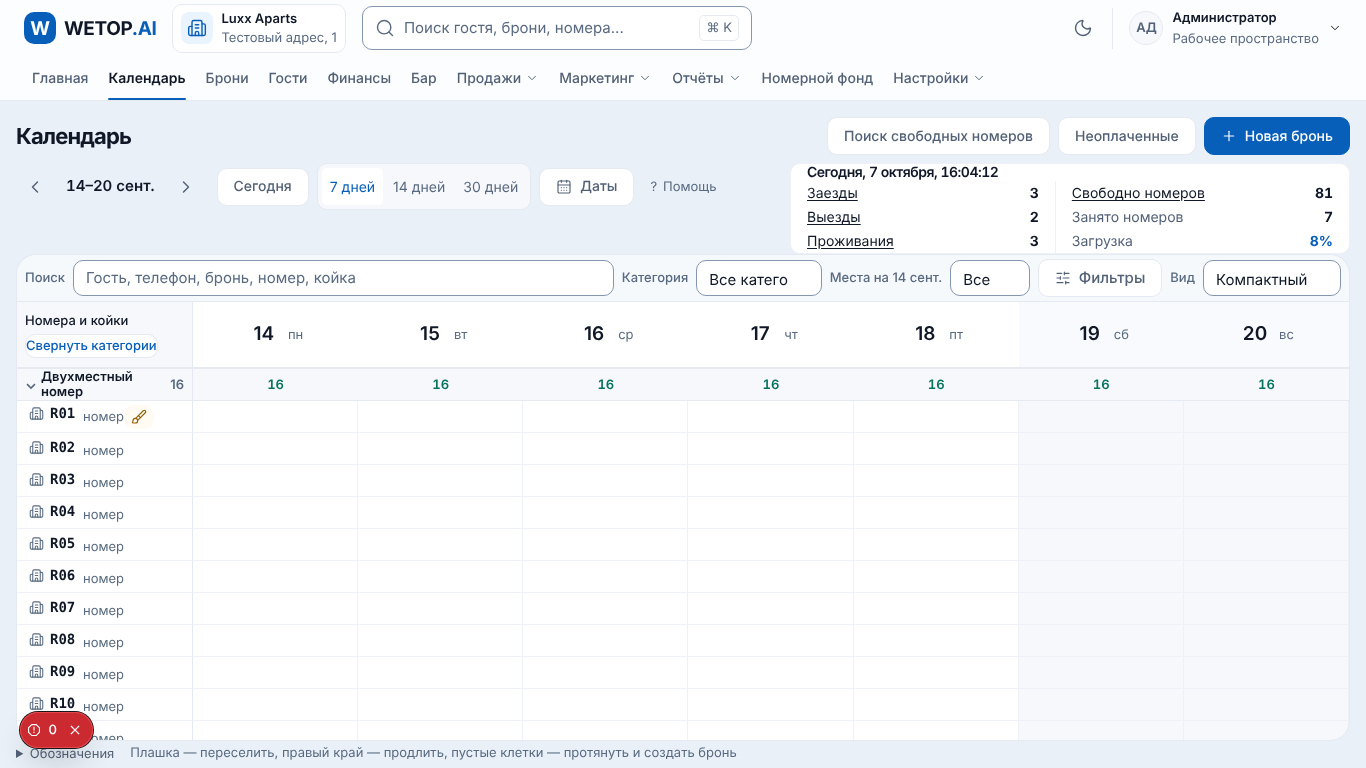
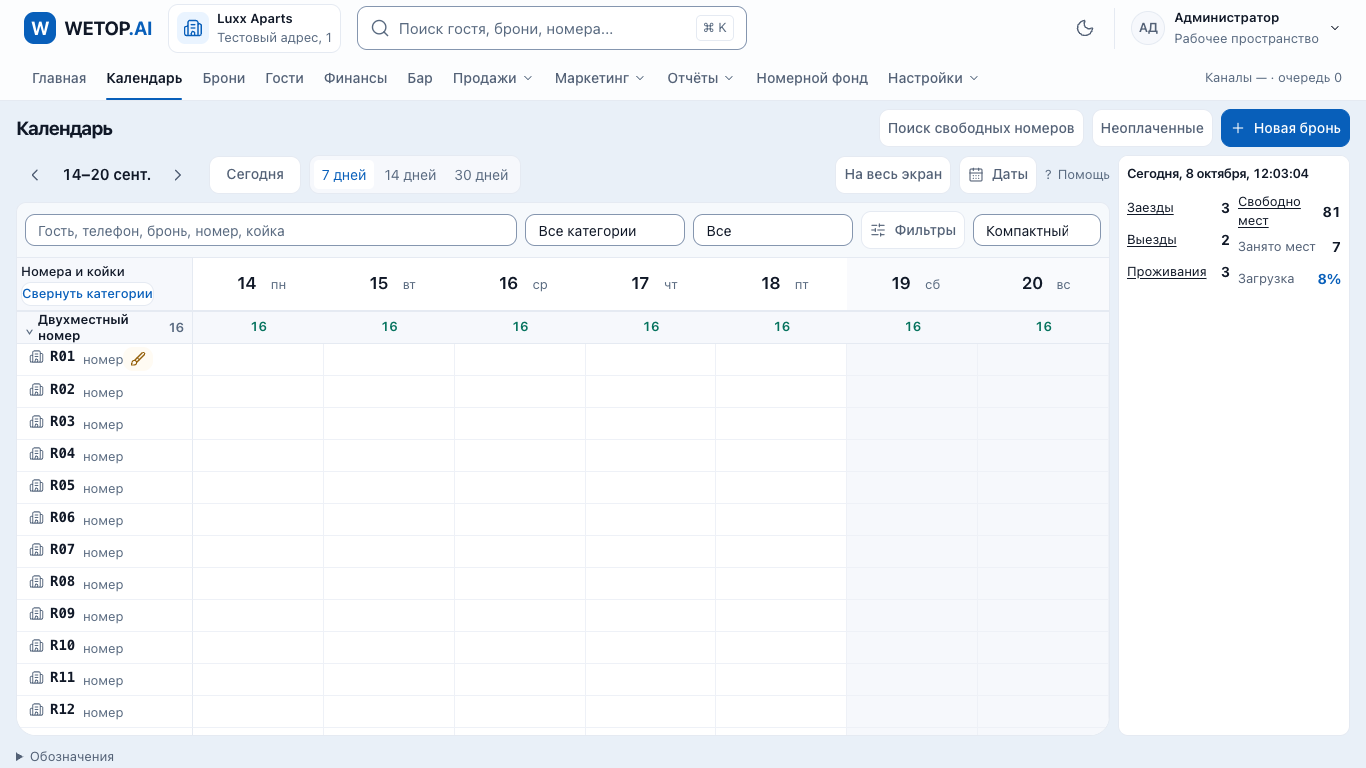
fix: stabilize availability periods and compact calendar footer

diff --git a/tests/ui/unified-acceptance.spec.ts b/tests/ui/unified-acceptance.spec.ts
@@ -5,10 +5,24 @@ test.beforeEach(async ({ request }) => {
 });
 
 for (const width of [1440, 390]) {
-  test(`AVAIL-SUM-01: totals match visible categories at ${width}`, async ({ page }) => {
+  test(`AVAIL-SUM-01: totals match visible categories at ${width}`, async ({ page, request }) => {
     await page.setViewportSize({ width, height: 844 });
+    const reset = await request.post(`${FIXTURE_API}/__test/reset`);
+    expect(reset.ok()).toBe(true);
+    const { today } = (await reset.json()) as { today: string };
+    const dateAfter = (days: number) => {
+      const date = new Date(`${today}T00:00:00Z`);
+      date.setUTCDate(date.getUTCDate() + days);
+      return date.toISOString().slice(0, 10);
+    };
+    // M01 and M02 occupy [today - 2, today + 3); verify both periods exactly.
     await page.goto(
-      '/rooms/availability?arrival=2026-10-10&departure=2026-10-12&guests=1&category=MALE',
+      `/rooms/availability?arrival=${today}&departure=${dateAfter(1)}&guests=1&category=MALE`,
+    );
+    await expect(page.locator('.fund-result-heading .fund-counts b')).toHaveText(['0', '34']);
+    await expect(page.locator('.fund-availability .fund-available-count b')).toHaveText('34');
+    await page.goto(
+      `/rooms/availability?arrival=${dateAfter(4)}&departure=${dateAfter(6)}&guests=1&category=MALE`,
     );
     const heading = page.locator('.fund-result-heading');
     await expect(page.locator('.fund-availability > article')).toHaveCount(1);

diff --git a/tests/ui/chessboard-card.spec.ts b/tests/ui/chessboard-card.spec.ts
@@ -74,6 +74,8 @@ test('«Заселить» из предпросмотра выполняет с
   request,
 }) => {
   await page.goto('/chessboard');
+  await page.getByText('Обозначения', { exact: true }).click();
+  await expect(page.getByTestId('board-legend')).toBeVisible();
   const confirmed = page.locator('td[data-status="CONFIRMED"] [data-testid="stay-cell"]').first();
   const number = await confirmed.getAttribute('data-number');
   await confirmed.click();

diff --git a/apps/web/src/app/chessboard/board.css b/apps/web/src/app/chessboard/board.css
@@ -2388,6 +2388,7 @@ body:has(.calendar-workspace[data-expanded='true']) {
 
 @media (min-width: 601px) {
   .page.calendar-page { padding-bottom: 0; }
+  .calendar-page .board-footer { padding-top: 0; }
 }
 
 /* Fit the month to the workspace, including the vertical scrollbar. */

diff --git a/reports/unified-stage-2026-10-07/CI-REPAIR-2026-10-08.md b/reports/unified-stage-2026-10-07/CI-REPAIR-2026-10-08.md
@@ -32,3 +32,16 @@ Mobile GREEN 2026-10-08T06-20-53Z-e2e-eadd: 3/3, restored form and both fields f
 Full CI 37737259720 on 7c0d61e9e3225dc3cf889343362115e603b93530 failed one unit test, design breakpoint guard (new 760px rule, baseline 4 to 5). Downstream UI/PG16 jobs skipped, not acceptance passes. Local RED 2026-10-08T06-26-54Z-unit-bfa0 reproduced it. Replaced only the new threshold with approved 601px, retaining existing historical rules and unchanged guard/baseline.
 
 Breakpoint GREEN 2026-10-08T06-27-17Z-unit-b206: 17/17. Browser recheck 2026-10-08T06-27-20Z-e2e-a897: 5/5, unchanged geometry and month-width gates, both themes across mobile/desktop. No baseline, skip, assertion or timeout change. Failed full CI preserved; a new SHA requires a new full run.
+
+
+## Full candidate 7c335: four additional failures
+
+Run https://github.com/GAIVER007/wetop.ai/actions/runs/37737805524 completed FAILED. UI1: 332 passed, 2 failed. UI3: 330 passed, 2 failed. Other required jobs passed, including PG16 integration, 24 full-master tests, 26 authenticated E2E and 24 guarded BAR tests. No rerun of this SHA.
+
+AVAIL-SUM-01 failed at both 1440 and 390: fixed 2026-10-10 dates intersected date-relative fixture M01/M02 stays on Oct8. Both stays end at fixture today+3. This was a deterministic test-date mismatch, not evidence of an availability calculation bug. Local RED 2026-10-08T06-59-35Z-e2e-3b43: 2/2 failed, expected 36 vs actual 34. Test now reads the reset endpoint's property date, strictly checks 34 during occupancy and 36 in [today+4,today+6), reload and filtered category totals. It does not infer expected capacity from application output or change availability code.
+
+Check-in preview retained its status assertions but expected a closed details legend to be visible. Test now opens and asserts the legend before the command, then retains the original post-command visibility, check-in persistence and checkout assertions. No result assertion removed.
+
+Laptop geometry was a real regression: footer padding added 4px to the compact closed legend, leaving 35px in CI and 36px locally vs unchanged maximum 32px. Removed only calendar desktop footer top padding. Original min-eight-visible-rows, all88 places, no page scrolling and max32px bottom gap gates remain.
+
+Local RED 2026-10-08T07-01-07Z-e2e-9a20: both legend and geometry failures reproduced. GREEN 2026-10-08T07-02-46Z-e2e-69dc: 4/4, including both availability viewports. Design guard GREEN 2026-10-08T07-03-13Z-unit-efc1: 17/17. ESLint changed tests and git diff whitespace validation exit0. Review: one scoped CSS declaration and test setup corrections; no auth/API/model/finance/migration changes. Own UI fixture/Next ports56180/56181 stopped, locks empty. The next candidate requires a fresh complete CI; previous failures remain evidence.

diff --git a/tests/runs/JOURNAL.md b/tests/runs/JOURNAL.md
@@ -7294,3 +7294,7 @@
 | 08.10.2026 11:26 | unit (частично: tests/unit/design-slop.test.ts) | ❌ упало 1 из 17 | 2 с | 7c0d61e | [лог](logs/2026-10-08T06-26-54Z-unit-bfa0.log) | RED: full CI rejected new 760px breakpoint outside approved design scale |
 | 08.10.2026 11:27 | unit (частично: tests/unit/design-slop.test.ts) | ✅ 17 из 17 | 2 с | 7c0d61e +1 | [лог](logs/2026-10-08T06-27-17Z-unit-b206.log) | GREEN: use approved 601px breakpoint, no baseline or guard change |
 | 08.10.2026 11:27 | e2e (частично: --workers=1 --config tests/ui/playwright.alt.config.ts tests/ui/booking-price-nights.spec.ts tests/ui/chessboard-design.spec.ts tests/ui/chessboa | ✅ 5 из 5 | 48 с | 7c0d61e +1 | [лог](logs/2026-10-08T06-27-20Z-e2e-a897.log) | Recheck desktop and mobile calendar after approved breakpoint correction |
+| 08.10.2026 11:59 | e2e (частично: --workers=1 --config tests/ui/playwright.alt.config.ts tests/ui/unified-acceptance.spec.ts --grep AVAIL-SUM) | ❌ упало 2 из 2 | 1 мин 5 с | 7c335db | [лог](logs/2026-10-08T06-59-35Z-e2e-3b43.log) | Reproduce fixed-date availability failure from CI37737805524 without database |
+| 08.10.2026 12:01 | e2e (частично: --workers=1 --config tests/ui/playwright.alt.config.ts tests/ui/chessboard-card.spec.ts tests/ui/chessboard-compact-screen.spec.ts --grep Заселит | ❌ упало 2 из 2 | 1 мин 16 с | 7c335db | [лог](logs/2026-10-08T07-01-07Z-e2e-9a20.log) | Reproduce CI37737805524 legend visibility and calendar bottom gap |
+| 08.10.2026 12:02 | e2e (частично: --workers=1 --config tests/ui/playwright.alt.config.ts tests/ui/unified-acceptance.spec.ts tests/ui/chessboard-card.spec.ts tests/ui/chessboard-c | ✅ 4 из 4 | 26 с | 7c335db +3 | [лог](logs/2026-10-08T07-02-46Z-e2e-69dc.log) | GREEN strict occupied/free totals, legend command persistence and unchanged laptop gap gate |
+| 08.10.2026 12:03 | unit (частично: tests/unit/design-slop.test.ts) | ✅ 17 из 17 | 1 с | 7c335db +1 | [лог](logs/2026-10-08T07-03-13Z-unit-efc1.log) | Calendar footer token change keeps design guard and baseline intact |
